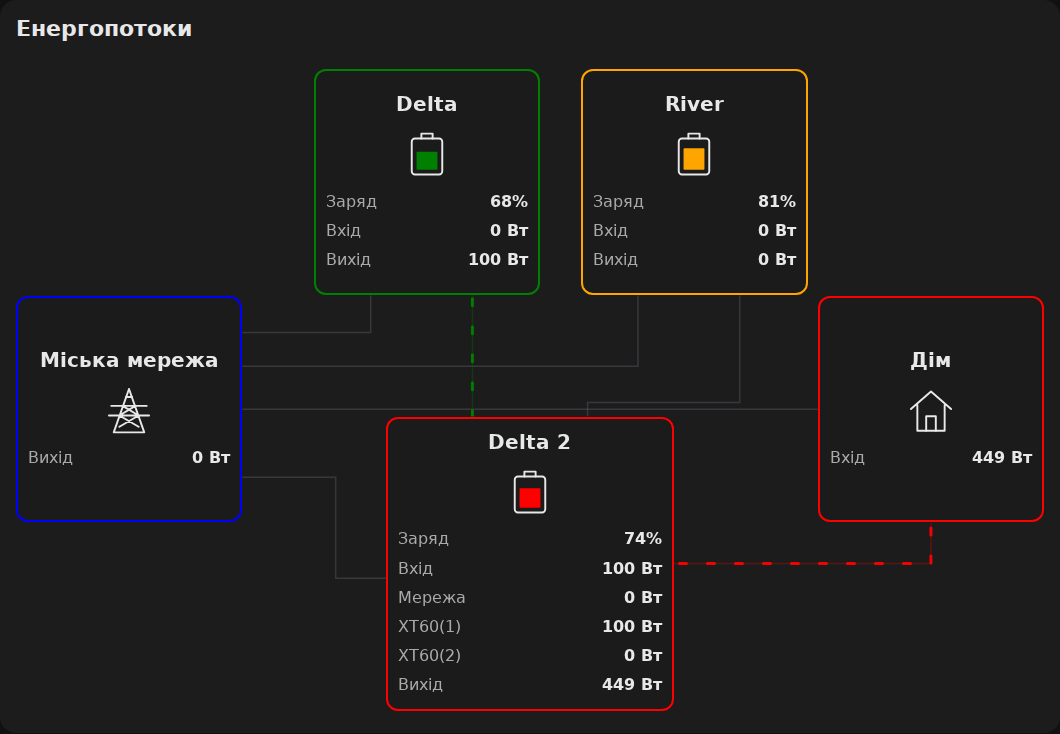
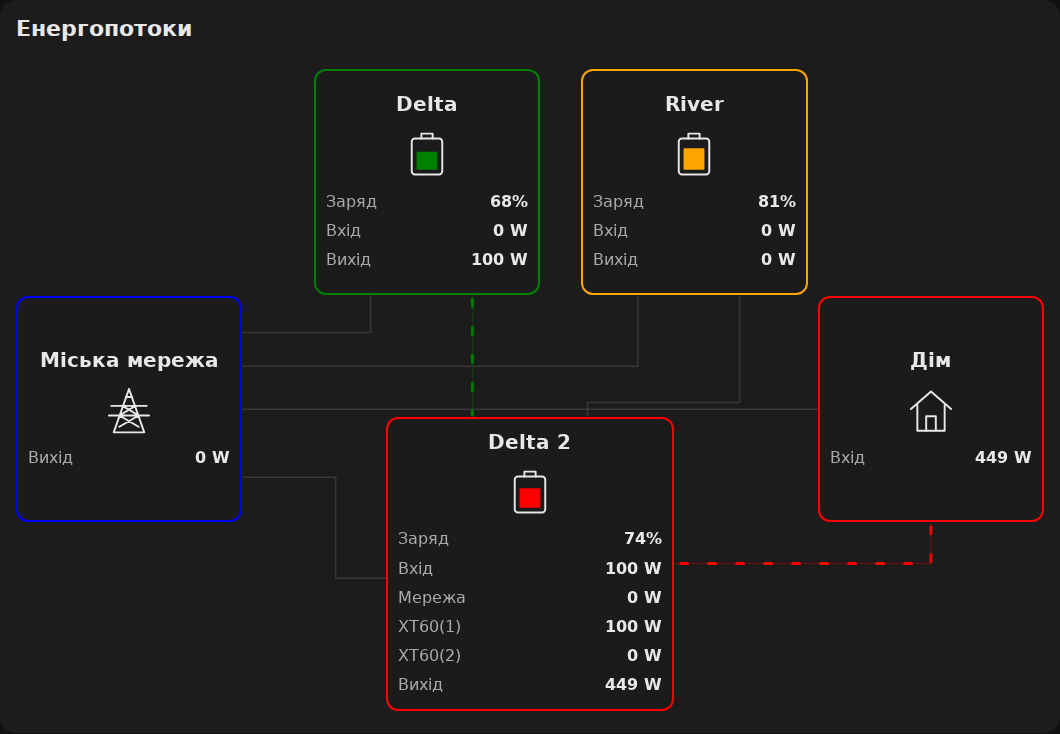
Fit all readings on one line and use W/kW units

diff --git a/suris-ecoflow-flow-card.js b/suris-ecoflow-flow-card.js
@@ -1,8 +1,8 @@
-/* Suris EcoFlow Flow Card v0.1.10 | MIT | No external dependencies. */
+/* Suris EcoFlow Flow Card v0.1.11 | MIT | No external dependencies. */
 (() => {
   'use strict';
   const TAG = 'suris-ecoflow-flow-card';
-  const VERSION = '0.1.10';
+  const VERSION = '0.1.11';
   const NS = 'http://www.w3.org/2000/svg';
   let cardSequence = 0;
   const DEFAULTS = {
@@ -14,7 +14,7 @@
     appearance: { grid_color: '#4b9fff', solar_color: '#ffcc42', main_color: '#27d9d5', threshold: 3, duration: 3 }
   };
   const TEXT = {
-    uk: { grid: 'Міська мережа', main: 'Головна EcoFlow', home: 'Дім', title: 'Енергопотоки', input: 'Вхід', output: 'Вихід', soc: 'Заряд', ac: 'Мережа', source: 'Джерело', unknown: 'Невідомо', unavailable: 'Недоступно', select: 'Вибери сутності в редакторі картки', settings: 'Налаштування', homePowerLabel: 'Вхід дому (необов’язково)', homeDerived: 'Без окремого датчика: від мережі — загальна потужність мінус заряджання трьох станцій; від EcoFlow — вихід головної станції. Відсутні або недоступні входи станцій у розрахунку вважаються нулем. Вхід дому від мережі розрахунковий.', sourceHint: 'Мережа є — дім від міської мережі. Мережі немає — дім від головної EcoFlow. Вибери датчик наявності мережі в блоці міської мережі.', flowHint: 'Штрихи без стрілок рухаються від джерела до споживача. Більша потужність кожної лінії — більша швидкість. Більший базовий час — повільніший рух. Потік активний, коли потужність перевищує поріг. Відсутні або недоступні показники відображаються як —.', mainHint: 'Для лінії мережа → головна EcoFlow потрібна окрема потужність AC-входу. Загальний вхід не використовується як AC-вхід.', auxHint: 'Потужність передачі на головну станцію: вибери DC-вихід, якщо загальний вихід включає інші навантаження. Якщо поле порожнє, використовується загальний вихід.', editorError: 'Редактор Home Assistant ще завантажується. Закрий та відкрий редактор картки ще раз.', more: 'Докладніше', watts: 'Вт', mismatch: 'Стан міської мережі не розпізнано', setup: 'Вибери датчик наявності міської мережі' },
+    uk: { grid: 'Міська мережа', main: 'Головна EcoFlow', home: 'Дім', title: 'Енергопотоки', input: 'Вхід', output: 'Вихід', soc: 'Заряд', ac: 'Мережа', source: 'Джерело', unknown: 'Невідомо', unavailable: 'Недоступно', select: 'Вибери сутності в редакторі картки', settings: 'Налаштування', homePowerLabel: 'Вхід дому (необов’язково)', homeDerived: 'Без окремого датчика: від мережі — загальна потужність мінус заряджання трьох станцій; від EcoFlow — вихід головної станції. Відсутні або недоступні входи станцій у розрахунку вважаються нулем. Вхід дому від мережі розрахунковий.', sourceHint: 'Мережа є — дім від міської мережі. Мережі немає — дім від головної EcoFlow. Вибери датчик наявності мережі в блоці міської мережі.', flowHint: 'Штрихи без стрілок рухаються від джерела до споживача. Більша потужність кожної лінії — більша швидкість. Більший базовий час — повільніший рух. Потік активний, коли потужність перевищує поріг. Відсутні або недоступні показники відображаються як —.', mainHint: 'Для лінії мережа → головна EcoFlow потрібна окрема потужність AC-входу. Загальний вхід не використовується як AC-вхід.', auxHint: 'Потужність передачі на головну станцію: вибери DC-вихід, якщо загальний вихід включає інші навантаження. Якщо поле порожнє, використовується загальний вихід.', editorError: 'Редактор Home Assistant ще завантажується. Закрий та відкрий редактор картки ще раз.', more: 'Докладніше', watts: 'W', mismatch: 'Стан міської мережі не розпізнано', setup: 'Вибери датчик наявності міської мережі' },
     en: { grid: 'City grid', main: 'Main EcoFlow', home: 'Home', title: 'Energy flows', input: 'Input', output: 'Output', soc: 'Charge', ac: 'Grid', source: 'Source', unknown: 'Unknown', unavailable: 'Unavailable', select: 'Select entities in the card editor', settings: 'Settings', homePowerLabel: 'Home input power (optional)', homeDerived: 'Without a separate sensor: grid power minus the three station charging powers when on grid; main station output when on EcoFlow. Missing or unavailable station inputs count as zero in this calculation. Home input from the grid is calculated.', sourceHint: 'Grid available — home powered by grid. Grid absent — home powered by the main EcoFlow. Select the grid availability sensor in the city grid section.', flowHint: 'Dashes without arrows move from source to load. Higher power on each line increases its speed. A larger base time slows movement. A flow is active above the threshold. Missing or unavailable readings appear as —.', mainHint: 'A separate AC input power entity is required for grid → main EcoFlow. Total input is never treated as AC input.', auxHint: 'Transfer power: use DC output if total output includes other loads. When empty, total output is used.', editorError: 'The Home Assistant editor is still loading. Close and reopen the card editor.', more: 'More information', watts: 'W', mismatch: 'Unrecognized grid availability state', setup: 'Select the grid availability sensor' }
   };
   const t = (config) => TEXT[config?.language] || TEXT.uk;
@@ -127,10 +127,10 @@
     .flow path{fill:none;stroke:var(--divider-color,#60656d);stroke-width:1.5;stroke-linejoin:miter;stroke-linecap:butt;opacity:.40}.flow.active .flow-track{stroke:var(--color);opacity:.28}.flow .flow-dashes{stroke:var(--color);stroke-width:3;stroke-linecap:round;stroke-dasharray:7 21;opacity:.95;visibility:hidden}.flow.active .flow-dashes{visibility:visible}
     .node{position:absolute;display:flex;flex-direction:column;justify-content:center;gap:7px;min-width:0;background:transparent;background:color-mix(in srgb,var(--ha-card-background,var(--card-background-color,#1c1c1c)) 8%,transparent);border:2px solid var(--node-color,var(--divider-color,#60656d));border-radius:12px;padding:12px 10px;z-index:1;min-height:max(140px,22cqw);height:auto}
     .node h3{font-size:clamp(12px,1.9cqw,20px);line-height:1.25;text-align:center;margin:0;font-weight:600;overflow-wrap:anywhere}.node .icon{display:flex;justify-content:center;height:clamp(30px,5cqw,56px);margin:4px 0}.icon svg{height:100%;width:64px;fill:none;stroke:currentColor;stroke-width:2.4;stroke-linecap:round;stroke-linejoin:round}.icon .battery-fill{fill:var(--node-color,var(--flow-main));stroke:none}
-    .row{display:flex;align-items:baseline;justify-content:space-between;gap:4px;font-size:clamp(11px,1.6cqw,17px);line-height:1.35;min-width:0}.label{color:var(--secondary-text-color,#aaa);overflow-wrap:anywhere}.value{font:inherit;color:inherit;font-weight:600;text-align:right;white-space:nowrap;background:none;border:0;padding:0;min-width:0}.value[data-entity]{cursor:pointer}.value:focus-visible{outline:2px solid var(--flow-main);outline-offset:2px}.value:disabled{opacity:1}
+    .row{display:flex;align-items:baseline;justify-content:space-between;gap:4px;flex-wrap:nowrap;font-size:clamp(11px,1.6cqw,17px);line-height:1.35;min-width:0}.label{color:var(--secondary-text-color,#aaa);white-space:nowrap}.value{flex-shrink:0;font:inherit;color:inherit;font-weight:600;text-align:right;white-space:nowrap;background:none;border:0;padding:0;min-width:0}.value[data-entity]{cursor:pointer}.value:focus-visible{outline:2px solid var(--flow-main);outline-offset:2px}.value:disabled{opacity:1}
     .grid{left:0;top:37%;width:22%}.home{right:0;top:37%;width:22%}.auxiliary_1{left:29%;top:3%;width:22%}.auxiliary_2{left:55%;top:3%;width:22%}.main{left:36%;bottom:1%;width:28%;min-height:max(220px,28cqw)}
     .status{margin-top:8px;color:var(--secondary-text-color,#aaa);font-size:12px;min-height:16px;text-align:center}.status:empty{display:none}
-    @container(max-width:520px){.diagram{height:540px}.node{padding:8px 5px;gap:6px;border-radius:9px;min-height:137px}.node h3{font-size:12px}.node .icon{height:29px;margin:0}.row{font-size:11px;flex-wrap:wrap;gap:0 3px}.row .value{margin-left:auto}.grid .row{flex-wrap:nowrap;gap:2px}.grid .row .label{white-space:nowrap}.grid .value{flex-shrink:0}.grid,.home{width:24%;top:38%}.home .power .label{font-size:clamp(8px,2.8cqw,11px);overflow-wrap:normal}.auxiliary_1{left:26%;width:25%;top:5%}.auxiliary_2{left:54%;width:25%;top:5%}.main{left:33%;width:34%;min-height:202px}}
+    @container(max-width:520px){.diagram{height:540px}.node{padding:8px 5px;gap:6px;border-radius:9px;min-height:137px}.node h3{font-size:12px}.node .icon{height:29px;margin:0}.row{font-size:11px;gap:2px}.row .value{margin-left:auto}.grid,.home{width:24%;top:38%}.auxiliary_1{left:26%;width:25%;top:5%}.auxiliary_2{left:54%;width:25%;top:5%}.main{left:33%;width:34%;min-height:202px}}
     @media(prefers-reduced-motion:reduce){.flow .flow-dashes{display:none}.flow.active .flow-track{stroke-width:3;opacity:.92}}
   `;
   class SurisEcoFlowFlowCard extends HTMLElement {
@@ -229,7 +229,7 @@
         if (node === 'main' && field === 'solar_1') entity = c.main.solar_input_power;
         if (node === 'main' && field === 'solar_2') entity = c.main.solar_input_power_2;
         if (field === 'soc') value = value != null && value >= 0 && value <= 100 ? `${formatter.format(value)}%` : '—';
-        else if (node === 'grid' && value != null && Math.abs(value) >= 1000) value = `${new Intl.NumberFormat(c.language === 'en' ? 'en' : 'uk', { maximumFractionDigits: 2, useGrouping: false }).format(value / 1000)} ${c.language === 'en' ? 'kW' : 'кВт'}`;
+        else if (value != null && Math.abs(value) >= 1000) value = `${new Intl.NumberFormat(c.language === 'en' ? 'en' : 'uk', { maximumFractionDigits: 2, useGrouping: false }).format(value / 1000)} kW`;
         else value = value == null ? '—' : `${formatter.format(value)} ${text.watts}`;
         button.textContent = value;
         if (entity) button.dataset.entity = entity; else delete button.dataset.entity;
@@ -237,7 +237,7 @@
         button.title = entity ? `${entity}: ${this._states[entity]?.state ?? text.unavailable}` : node === 'home' && field === 'power' ? text.homeDerived : text.select;
         button.setAttribute('aria-label', `${this._nodes[node].querySelector('h3').textContent}, ${button.previousSibling.textContent}: ${value}`);
       }
-      this._fitGridPower();
+      this._fitRows();
       for (const key of ['auxiliary_1', 'auxiliary_2', 'main']) {
         const soc = data[key].soc, battery = this._nodes[key].querySelector('.icon svg');
         const known = soc != null && soc >= 0 && soc <= 100;
@@ -263,28 +263,31 @@
         } else if (animation.playState !== 'paused') animation.pause();
       }
     }
-    _fitGridPower() {
-      const row = this._values?.['grid.output']?.parentElement;
-      if (!row || !this.isConnected || !row.clientWidth) return;
-      row.style.removeProperty('font-size');
-      const label = row.querySelector('.label'), value = row.querySelector('.value');
-      const range = document.createRange();
-      const width = (element) => { range.selectNodeContents(element); return range.getBoundingClientRect().width; };
-      const gap = parseFloat(getComputedStyle(row).columnGap) || 0;
-      const available = row.clientWidth - gap - 1;
-      const needed = () => width(label) + width(value);
-      const naturalWidth = needed();
-      if (naturalWidth <= available) return;
-      let size = Math.floor(parseFloat(getComputedStyle(row).fontSize) * available / naturalWidth * 10) / 10;
-      row.style.fontSize = `${size}px`;
-      while (needed() > available && size > 1) {
-        size = Math.max(1, Math.round((size - .1) * 10) / 10);
+    _fitRows() {
+      if (!this.isConnected || !this._values) return;
+      for (const button of Object.values(this._values)) {
+        const row = button.parentElement;
+        if (!row.clientWidth) continue;
+        row.style.removeProperty('font-size');
+        const label = row.querySelector('.label');
+        const range = document.createRange();
+        const width = (element) => { range.selectNodeContents(element); return range.getBoundingClientRect().width; };
+        const gap = parseFloat(getComputedStyle(row).columnGap) || 0;
+        const available = row.clientWidth - gap - 1;
+        const needed = () => width(label) + width(button);
+        const naturalWidth = needed();
+        if (naturalWidth <= available) continue;
+        let size = Math.floor(parseFloat(getComputedStyle(row).fontSize) * available / naturalWidth * 10) / 10;
         row.style.fontSize = `${size}px`;
+        while (needed() > available && size > 1) {
+          size = Math.max(1, Math.round((size - .1) * 10) / 10);
+          row.style.fontSize = `${size}px`;
+        }
       }
     }
     _drawPaths() {
       if (!this._diagram || !this.isConnected) return;
-      this._fitGridPower();
+      this._fitRows();
       const base = this._diagram.getBoundingClientRect(); if (!base.width || !base.height) return;
       const rect = (key) => { const r = this._nodes[key].getBoundingClientRect(); return { x: r.left - base.left, y: r.top - base.top, w: r.width, h: r.height, right: r.right - base.left, bottom: r.bottom - base.top }; };
       const g = rect('grid'), a = rect('auxiliary_1'), b = rect('auxiliary_2'), m = rect('main'), h = rect('home');

diff --git a/README.md b/README.md
@@ -1,4 +1,4 @@
-# Suris EcoFlow Flow Card 0.1.10
+# Suris EcoFlow Flow Card 0.1.11
 
 Картка Home Assistant із візуальним редактором сутностей. Міська мережа ліворуч, дім праворуч, дві допоміжні EcoFlow зверху, головна EcoFlow знизу. Значення потужності містяться у квадратних блоках; на лініях лише рух потоку. Працює локально, без сторонніх бібліотек, CDN та збірки.
 
@@ -16,7 +16,7 @@
 
 1. Скопіюй `suris-ecoflow-flow-card.js` до папки `www` у каталозі конфігурації Home Assistant. Через Studio Code Server це зазвичай `/config/www`; в окремих версіях середовища каталог може відображатися як `/homeassistant/www`. Використовуй той каталог, у якому розташований `configuration.yaml`. Можна скористатися Samba або завантаженням файлу в редакторі. Якщо папку `www` щойно створено вперше, перезапусти Home Assistant.
 2. Відкрий **Налаштування → Панелі огляду → ⋮ → Ресурси → Додати ресурс**. Якщо «Ресурси» не видно, увімкни розширений режим у профілі користувача.
-3. URL: `/local/suris-ecoflow-flow-card.js?v=0.1.10`. Тип: **JavaScript module**.
+3. URL: `/local/suris-ecoflow-flow-card.js?v=0.1.11`. Тип: **JavaScript module**.
 4. Онови сторінку Home Assistant. За потреби очисть кеш інтерфейсу в застосунку.
 5. На панелі огляду натисни **Редагувати → Додати картку**, знайди **Suris EcoFlow Flow Card**.
 6. Вибери сутності у візуальному редакторі. YAML не потрібен.
@@ -70,7 +70,7 @@
 
 Якщо до допоміжної станції підключені інші навантаження, вибери окремий DC-вихід для передачі на головну. Загальний вихід у такому разі не показує лише цей потік. Сонячні входи головної станції відображаються незалежно від допоміжних станцій.
 
-Відсутні, недоступні або нечислові показники показуються як `—`, реальний нуль — як `0 Вт`. Натискання на показник відкриває докладну інформацію про його сутність. Картка не керує реле та виходами EcoFlow.
+Відсутні, недоступні або нечислові показники показуються як `—`, реальний нуль — як `0 W`. Натискання на показник відкриває докладну інформацію про його сутність. Картка не керує реле та виходами EcoFlow.
 
 ## Кольори рамок і потоків
 
@@ -82,7 +82,7 @@
 
 Усі сім ліній складаються лише з горизонтальних і вертикальних відрізків із прямими кутами. Міська мережа має окрему лінію до кожної станції та дому. Від першої допоміжної EcoFlow до головної проходить одна пряма вертикальна лінія. Від головної станції до дому лінія повертає лише один раз і входить у дім знизу. Короткі рухомі штрихи без стрілок повторюють ці самі маршрути від джерела до споживача.
 
-Значки батарей усіх трьох станцій показують рівень заповнення за їхніми датчиками заряду. 0% — порожня батарея, 100% — повна. Якщо заряд невідомий, недоступний або поза діапазоном 0–100%, усередині батареї відображається прочерк. Колір заповнення відповідає кольору станції. У домі потужність підписана «Вхід» і показується без знака приблизного значення. Рядок із назвою джерела прибрано: активне джерело видно за потоком і кольором рамки. У блоці міської мережі значення від 1000 Вт показуються у кВт із точністю до двох десяткових знаків; менші — у Вт. Підпис «Вихід», число та одиниця залишаються в одному рядку. Блок мережі має ту саму ширину, що й дім. Розмір тексту рядка зменшується лише за потреби, щоб повністю вмістити підпис, число та одиницю.
+Значки батарей усіх трьох станцій показують рівень заповнення за їхніми датчиками заряду. 0% — порожня батарея, 100% — повна. Якщо заряд невідомий, недоступний або поза діапазоном 0–100%, усередині батареї відображається прочерк. Колір заповнення відповідає кольору станції. У домі потужність підписана «Вхід» і показується без знака приблизного значення. Рядок із назвою джерела прибрано: активне джерело видно за потоком і кольором рамки. У всіх блоках значення від 1000 W показуються у kW із точністю до двох десяткових знаків; менші — у W. Підписи, числа та одиниці всіх показників залишаються в одному рядку. Блок мережі має ту саму ширину, що й дім. Розмір тексту рядка зменшується лише за потреби, щоб повністю вмістити підпис, число та одиницю.
 
 Фон квадратних блоків майже прозорий і має лише легкий відтінок кольору теми картки. Градієнтний фон картки видно крізь блоки.
 
@@ -104,3 +104,5 @@ API карток і встановлення ресурсу: https://developers.
 ## Тести для розробників
 
 Для роботи самої картки Node.js не потрібен. Для повторення тестів: `npm install`, `npx playwright install chromium`, `npm test`. Якщо Chromium вже встановлено, можна передати шлях через `SURIS_CHROMIUM_PATH`. Скриншоти `preview-desktop.png` і `preview-mobile.png` створені з реальної картки на тестових показниках.
+
+У всіх блоках одиниці потужності — **W** та **kW**. Від 1000 W значення показуються в kW. Підпис, число та одиниця залишаються в одному рядку; шрифт зменшується лише коли рядку бракує місця. Ширина блоків не змінюється.

diff --git a/CHANGELOG.md b/CHANGELOG.md
@@ -1,5 +1,11 @@
 # Changelog
 
+## 0.1.11
+
+- Keep every reading on one line in all five blocks, including both upper stations, without widening the blocks.
+- Fit only overflowing row text and restore its natural size when space is available.
+- Use W and kW in both languages; show power from 1000 W in kW throughout the card.
+
 ## 0.1.10
 
 - Restore the original city grid block width to match the home block on mobile.
